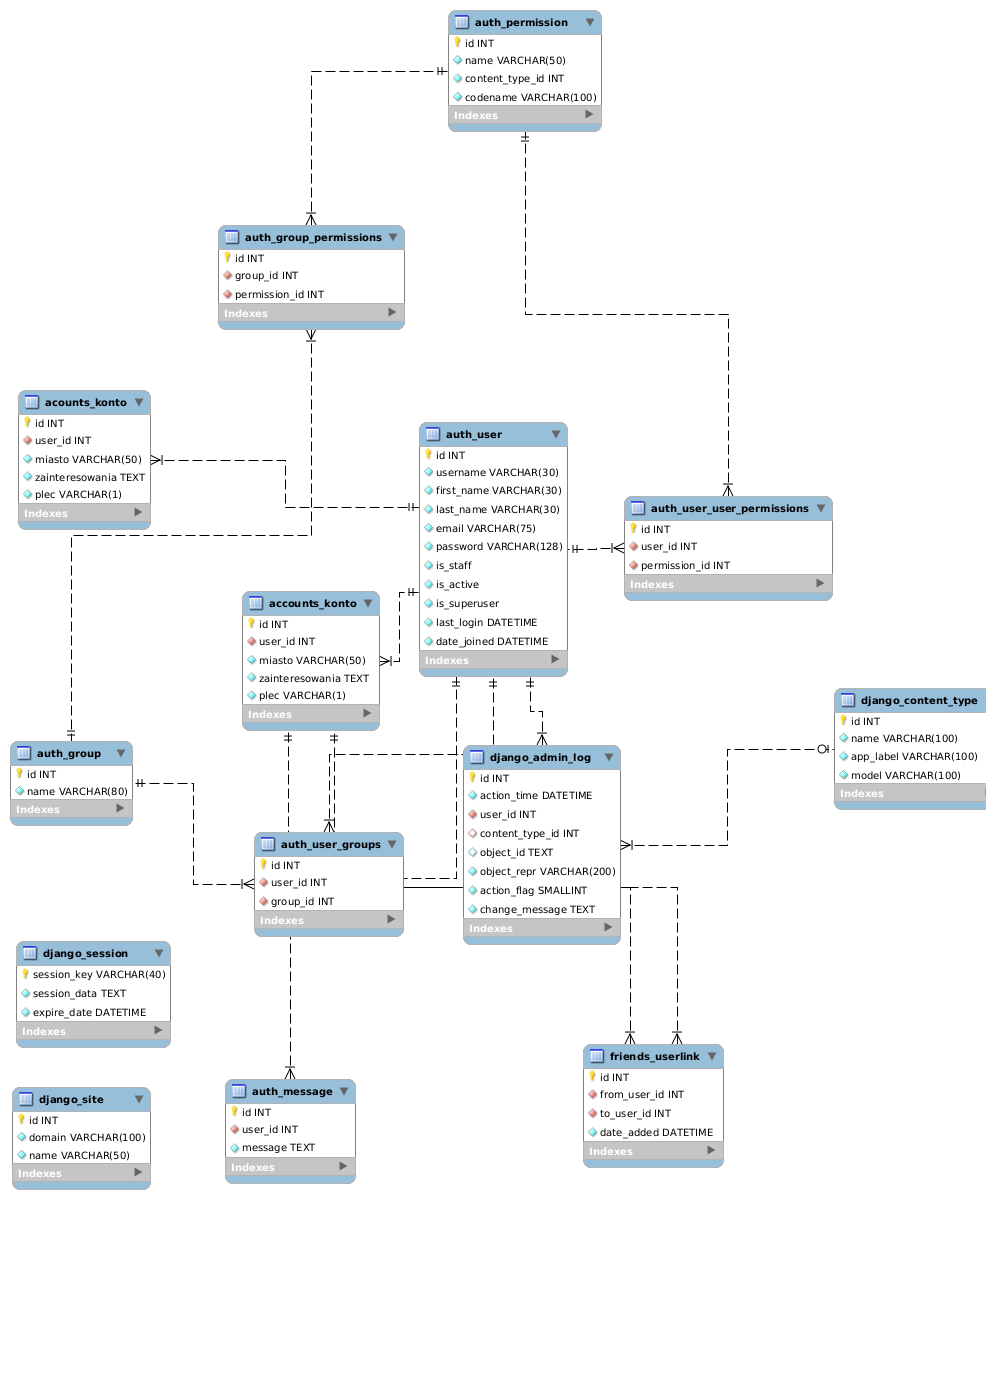
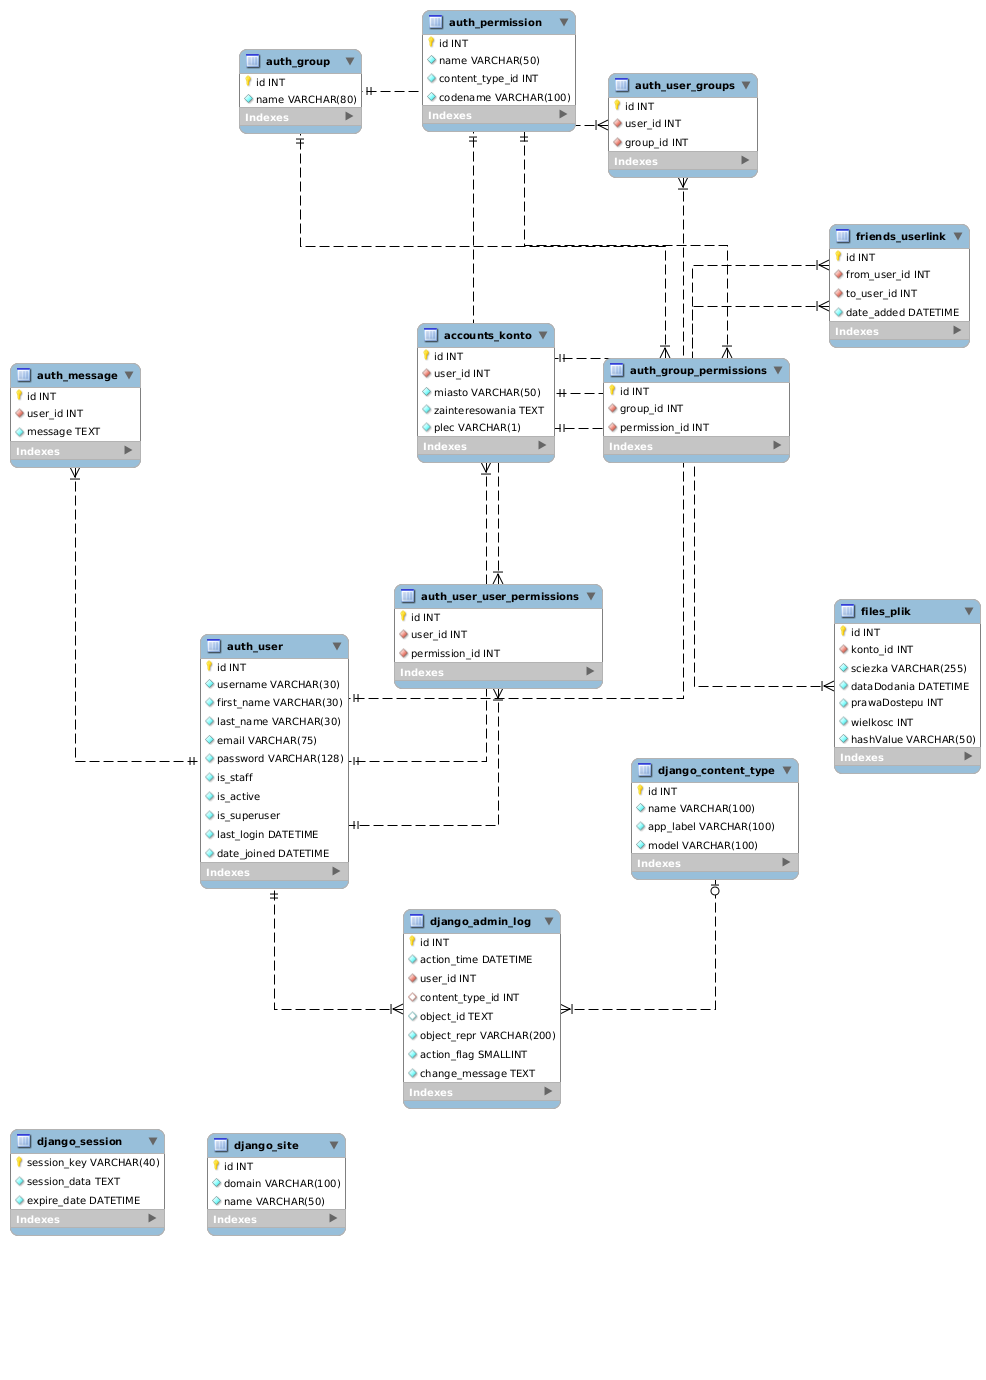
maly update bazy... blad sie wkradl:) dodalem tabele z plikami

diff --git a/Source/ass8_portal/files/models.py b/Source/ass8_portal/files/models.py
@@ -1,0 +1,15 @@
+from django.db import models
+from accounts.models import Konto
+
+from datetime import datetime
+
+class Plik(models.Model):
+    konto = models.ForeignKey(Konto)
+    sciezka = models.CharField(max_length=255)
+    dataDodania = models.DateTimeField(default = datetime.now())
+    prawaDostepu = models.IntegerField()
+    wielkosc = models.IntegerField()
+    hashValue = models.CharField(max_length=50)
+
+    def __unicode__(self):
+        return self.sciezka+" - user:"+ self.konto

diff --git a/Source/ass8_portal/urls.py b/Source/ass8_portal/urls.py
@@ -14,4 +14,5 @@ urlpatterns = patterns('',
     (r'^admin/(.*)', admin.site.root),
     (r'^accounts/', include('accounts.urls')),
     (r'^friends/',include('friends.urls')),
+    (r'^files/',include('friends.urls')),
 )

diff --git a/Source/ass8_portal/settings.py b/Source/ass8_portal/settings.py
@@ -83,4 +83,5 @@ INSTALLED_APPS = (
     'django.contrib.admin',
     'accounts',
     'friends',
+    'files',
 )

diff --git a/Source/ass8_portal/files/views.py b/Source/ass8_portal/files/views.py
@@ -1,0 +1,1 @@
+# Create your views here.
